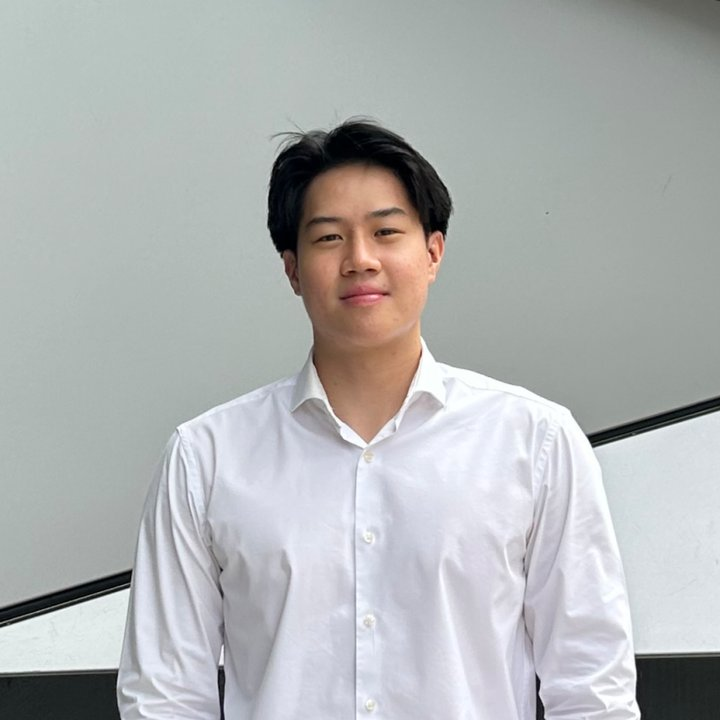
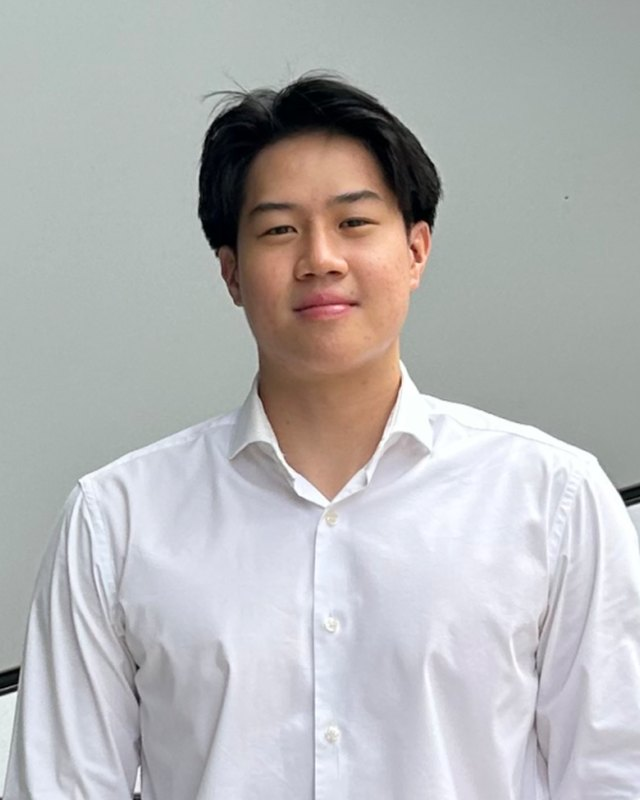
Add files via upload

diff --git a/style.css b/style.css
@@ -221,13 +221,13 @@ p + p { margin-top: 1rem; }
 .hero__cta { display: flex; gap: .8rem; flex-wrap: wrap; }
 
 /* Portrait */
-.portrait { position: relative; justify-self: center; width: 100%; max-width: 420px; margin: 0; }
+.portrait { position: relative; justify-self: center; width: 100%; max-width: 340px; margin: 0; }
 .portrait::before { /* offset blue frame */
   content: ""; position: absolute; inset: 18px -18px -18px 18px;
   border: 2px solid var(--blue-500); border-radius: 20px; opacity: .55;
 }
 .portrait img {
-  position: relative; display: block; width: 100%; height: auto; aspect-ratio: 1 / 1; object-fit: cover;
+  position: relative; display: block; width: 100%; height: auto; aspect-ratio: 4 / 5; object-fit: cover; object-position: 50% 20%;
   border-radius: 20px; box-shadow: var(--shadow-hover); background: var(--bg-alt);
 }
 .portrait__badge {
@@ -380,7 +380,7 @@ p + p { margin-top: 1rem; }
 /* ---------- Responsive ---------- */
 @media (max-width: 900px) {
   .hero__grid, .two-col { grid-template-columns: 1fr; gap: 40px; }
-  .portrait { max-width: 360px; justify-self: start; }
+  .portrait { max-width: 300px; justify-self: start; }
   .grid--2, .grid--3 { grid-template-columns: 1fr; }
   .grid--4 { grid-template-columns: repeat(2, 1fr); }
   .stats { grid-template-columns: repeat(2, 1fr); }
@@ -410,8 +410,10 @@ p + p { margin-top: 1rem; }
   .grid--4 { grid-template-columns: 1fr; }
   .doc { flex-direction: column; }
   .doc__icon { flex: none; width: 64px; }
-  .portrait { max-width: calc(100% - 18px); }
-  .portrait__badge { left: 12px; bottom: 16px; }
+  .portrait { max-width: min(280px, calc(100% - 18px)); }
+  .portrait__badge { left: 10px; right: 10px; bottom: 14px; padding: 10px 14px; }
+  .portrait__badge strong { font-size: .85rem; }
+  .portrait__badge em { font-size: .7rem; white-space: nowrap; }
 }
 
 @media (prefers-reduced-motion: reduce) {

diff --git a/index.html b/index.html
@@ -82,7 +82,7 @@
 
         <!-- Photo -->
         <figure class="portrait">
-          <img src="photo.jpg" alt="Sheng Jun Gan" width="720" height="720" />
+          <img src="photo.jpg" alt="Sheng Jun Gan" width="640" height="800" />
           <figcaption class="portrait__badge">
             <span class="portrait__dot"></span>
             <span><strong>Global Markets Dealer</strong><em>UOB Malaysia · PKMC Licensed</em></span>
